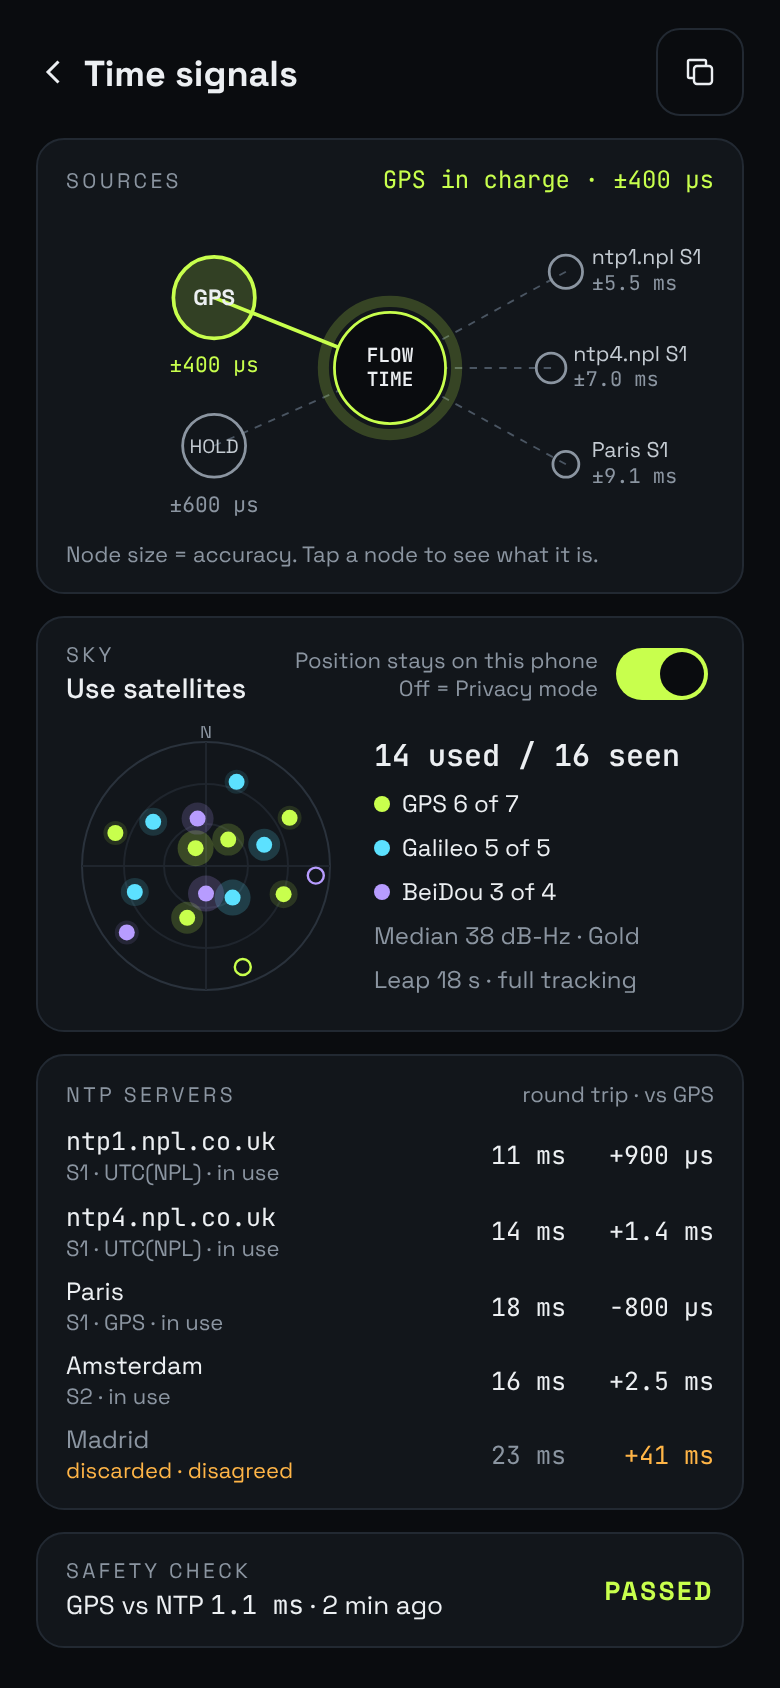
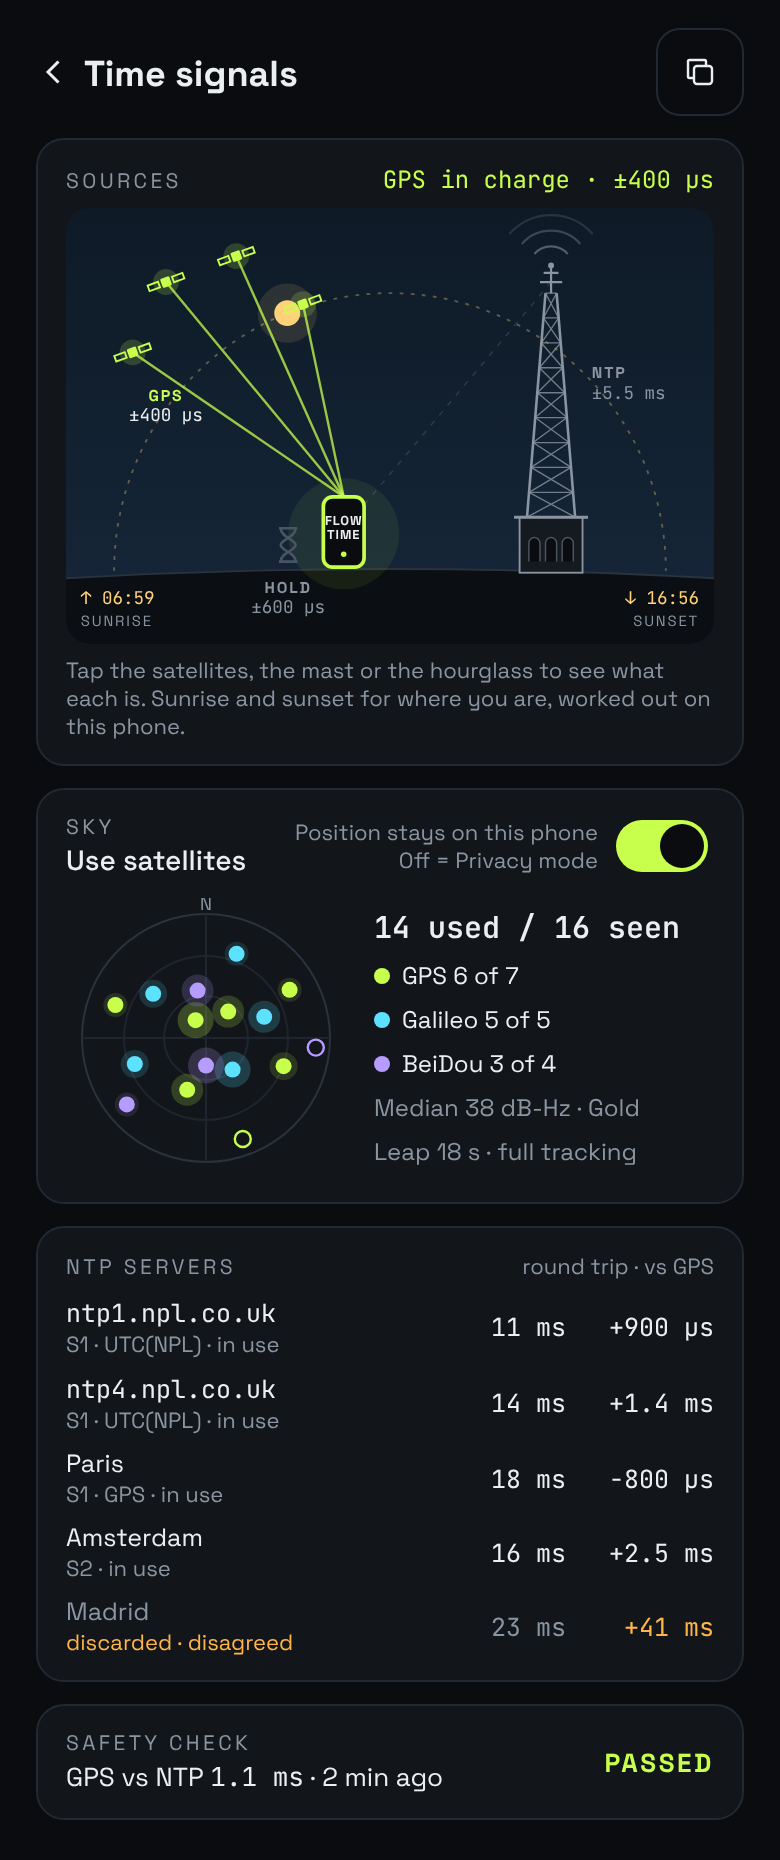
Design hand-offs 51 to 53 from Claude Desktop: earcup three runs and codecs, busy Swarm, Buffer axis; Time signals scene; reactions, pass it on, kept people listening

diff --git a/design/ui-spec.md b/design/ui-spec.md
@@ -1,4 +1,4 @@
-# UI spec (hand-off 50)
+# UI spec (hand-off 53)
 
 Field names come from Claude Code's "Fields that exist today" table in `feedback.md`, as of 1 Nov 2026. If one has been renamed since, use the new name.
 
@@ -853,6 +853,80 @@ User, 8 Nov: on first opening of Satellites, or the 3rd opening without using ge
 | Reduce motion | Still card over the dimmed box: two finger marks, `Pinch to zoom · slide two fingers to tilt`, Got it. Same when-rules. |
 | Screen readers | No animation; the box label gains `Pinch with two fingers to zoom, slide two fingers up or down to tilt, or use the zoom buttons.` once, on opening 1. |
 
+## Earcup test · three runs and codecs
+
+| Test and result | States |
+|---|---|
+| ![](screens/earcup-runs.png) | ![](screens/earcup-runs-states.png) |
+
+From Claude Code's 2 Nov measurements: the codec changes the result by up to ~130 ms on one headset, and the spread only shows **between** runs.
+
+| Part | Rule |
+|---|---|
+| Runs | The test runs **three times** back to back (~50 s): `Run 1 ✓ 93 ms later`, `Run 2 ● listening · 14 of 20 clicks`, `Run 3 ○ next`. A failed run (too quiet / noisy) is repeated once; two fails stop the test. `Quick test: one run (Unsteady at best)` link. |
+| Result | Average of the runs, in words (`94 ms later`); confidence from the **spread** (max − min): Good ≤ 10 ms, Unsteady 10–30 ms or a single run, Try again > 30 ms. ± = half the spread. Dot strip: the three runs numbered, the band they span, `runs agree within 3.3 ms`, the average marked. |
+| Codec | `[Headset name] · Bluetooth · AAC` chip on the test, result and Calibration header. Saved row reads `Saved for AAC`. Note: `Saved for AAC only…` |
+| Saved per codec | On Calibration, under Sources: one row per codec (`AAC 114 ms ±1.7 IN USE`, `LDAC 18 ms late ±7.0 3 Nov`, `SBC — not tested`). The row matching the codec in use is used. |
+| Codec changed | Sheet `Your headphones switched to LDAC`: with a saved LDAC value → **Use the LDAC value** / Test again (+ `Not now keeps the AAC value; sync may be off by about 110 ms`). With none → **Test now · about 50 s** / Not now, and `▲ MAY BE OFF` on the HEADPHONES tile until tested. |
+| Reconnect note | Longer: each connection agrees a codec and buffer, each with its own delay; LDAC adaptive and SBC can drift; matters when sync sounds off, after a codec change or a new phone; Brocast keeps a value per codec and asks. |
+| Later | Codec chip, per-codec rows and the codec-changed sheets wait until an ordinary app is confirmed able to read the codec. Until then: three runs, one saved value, the longer note. |
+
+## Swarm · busy (8+ listeners)
+
+![](screens/swarm-busy.png)
+
+| Part | Rule |
+|---|---|
+| Up to 7 | All drawn, as now. |
+| 8 or more | The 6 busiest (to-you + from-you, smoothed 10 s) plus one dashed **+N** node with their total rate. Same-Wi-Fi listeners always drawn; an open listener sheet keeps its node. |
+| Lines | Width and brightness follow rate; moving blocks only on the 3 busiest links. |
+| +N | Tap scrolls to the list. Count changes without animation. |
+| Swaps | Into the 6 only after 10 s busier; 400 ms cross-fade. |
+
+## Buffer axis (9 Nov)
+
+Labels only where there's room: `−5 s`, `+5 s`, `+10 s`, `1 m`, `1 h`, `24 h`; `10 m` keeps its tick without a label; `6 h` only when it's 40 px clear of `24 h`; no label within 24 px of the frontier line. The `FRONTIER +6 h 12 m` label sits on a dark backing so lines don't cross it. Canvas edits kept: Reduced steps at 10 Hz; Minimal shows no panel, the AHEAD tile only.
+
+## Silent reactions
+
+![](screens/reactions.png)
+
+User, 9 Nov (mesh ideas). Six emoji, no text, nothing to moderate.
+
+| Part | Rule |
+|---|---|
+| Tray | On Now playing under the mesh card: `REACT` and the top counts for the last minute (`🔥 1.4 k · 🙌 610 · last min`); six 48 px buttons (fire, hands up, love, wow, party, wave) with small counts. Rounded above 100. |
+| Sending | Tap: ringed, the rest dim for 3 s (one every 3 s per phone); a soft tick on the next beat confirms. |
+| Landing | Each reaction lands on the next beat 1 at the ear for everyone. On Swarm a ring and a small emoji float up from the sender's node (~1 s). |
+| Travel | Small signed message (key, emoji, bar) on its own mesh channel, passed on at most 3 hops; phones sum per minute; no list of who sent what. Senders faster than 1 / 3 s ignored for a minute; Blocked listeners dropped. |
+| Settings › Listening | Show reactions (on), Send reactions (on; off hides the tray). |
+| Levels | No flashing / Reduce motion: counts only, nothing floats. Minimal: hidden. |
+
+## Pass it on
+
+![](screens/pass-it-on.png)
+
+| Part | Rule |
+|---|---|
+| Giver | Kept › a set › Pass it on, or Now playing › ⋯ › Pass this set on: set header, a QR code (`brocast://pass/<station key>/<set>?via=<your key>`), `Let them scan this with Brocast`, `SIGNED BY BEACH SYNC RADIO`. |
+| Receiver | Brocast › Add › Scan: shows the set and who it's from (`SIGNED`) before anything downloads. Camera app opens Brocast. |
+| Moving | Both phones: `Sending to Teal Plum Ibis` / `Getting it from Amber Fig Heron`, %, path (`Same Wi-Fi · straight between you`), rate, time left. |
+| Done | `KEPT` · `Plays offline, in sync with the station when it's on air.` Every block checked against the station signature; withdrawn sets leave Kept too. |
+| Can't connect | `CAN'T REACH THEIR PHONE`: join the same Wi-Fi or a hotspot; resumes where it stopped. |
+| Rules | Only signed station sets held in full (and stations, via the existing Share a station). Same Wi-Fi/hotspot first, else internet (hole-punched); not on mobile data unless both allow it. Nearby holders also serve. |
+
+## You kept people listening
+
+![](screens/kept-people.png)
+
+| Part | Rule |
+|---|---|
+| Swarm | Top of stats: `You kept 3 people listening for 2 h 10 m today` (big), explanation, this week's bars (today highlighted). |
+| Mesh card | Third line `Helped 3 listeners · 2 h 10 m today` (replaces Passed on; bytes move to Swarm tiles). Not "Kept", which is the library. |
+| Note | Optional, once a day after the first hour passed on, only while open: `You kept 3 people listening today`. Settings › Delivery › Thank-you notes. |
+| Small numbers | 1 → `person`; minutes under an hour; none yet → a sentence, no zero; receive-only → hidden. |
+| Counting | Listening time = audio bytes passed on and played ÷ bitrate, per listener. People = distinct keys with ≥ 60 s from you today. On this phone only, never named or sent. Needs the daily ledger (until then "since 09:14"). |
+
 ## New running order on the phone
 
 ![](screens/order-change.png)
@@ -946,7 +1020,7 @@ A repeated event within 10 s gets a count (`×3`) instead of new rows. The Copy 
 
 ![](screens/time-signals-sources.png)
 
-The user's request (5 Nov): tapping a node in SOURCES shows what it is. Each node, its line and its label make one 44 px target. The tapped node gets a white ring and a sheet rises: the name and its state (`in charge`, `standing by`, `in use`, `discarded`), a plain definition, then live details. Tap another node to switch; swipe down or × to close. The SOURCES caption reads `Node size = accuracy. Tap a node to see what it is.`
+The user's request (5 Nov): tapping a node in SOURCES shows what it is. Each node, its line and its label make one 44 px target. The tapped node gets a white ring and a sheet rises: the name and its state (`in charge`, `standing by`, `in use`, `discarded`), a plain definition, then live details. Tap another node to switch; swipe down or × to close. **Superseded in hand-off 52:** SOURCES is now a picture (below); the taps work the same on the satellites, the mast and the hourglass. Caption: `Tap the satellites, the mast or the hourglass to see what each is. Sunrise and sunset for where you are, worked out on this phone.`
 
 | Node | Definition | Details |
 |---|---|---|
@@ -954,6 +1028,25 @@ The user's request (5 Nov): tapping a node in SOURCES shows what it is. Each nod
 | GPS | Time from navigation satellites via this phone's GPS chip; the best a phone can get | Satellites used of seen, Gold or Silver, last fix, error; link to Satellites |
 | Hold | This phone's own clock carrying on from the last satellite fix; takes over when GPS drops, error grows with time and temperature | Error now, growth rate, last fix, when internet time would take over; link to Satellites |
 | Internet time server (NTP) | A time server over the internet; S1 is one step from an atomic clock; NPL is the UK's National Physical Laboratory | Server, stratum, reference, round trip, difference from GPS, error, in use or discarded |
+
+
+### Sources as a picture (hand-off 52)
+
+| Main | States |
+|---|---|
+| ![](screens/time-signals.png) | ![](screens/time-signals-scene.png) |
+
+User, 9 Nov: the node diagram looked like a mesh with 4 nodes. Replace with a more accurate pictogram: a vastly exaggerated radio tower (Alexandra Palace style) for NTP, plus sunrise and sunset for the user's location.
+
+| Part | Rule |
+|---|---|
+| Scene | 350 × 236, rounded. Sky gradient (day / night with stars and moon). Ground with a slight curve. **Sun** on a dotted arc from the sunrise end (left) to the sunset end (right), placed by the time of day (updates once a minute). Under the ground line: `↑ 06:59 SUNRISE` left, `↓ 16:56 SUNSET` right, warm yellow `#FFD27A`. |
+| GPS | Four small satellites top left; lines to the phone. In charge: accent, solid, glow; otherwise grey, dashed. Label `GPS ±400 µs`. Tap opens Satellites. |
+| NTP | **A tall lattice mast on a brick tower with arched windows** (Alexandra Palace-like), far too tall on purpose, aerials and three wave arcs on top. In charge: accent, waves glow, solid line; otherwise grey, dashed. Label `NTP ±5.5 ms` (best server). Tap scrolls to NTP servers. |
+| Phone | FLOWTIME phone standing on the ground, centre, with a soft accent halo. **Hourglass** beside it = the phone's own clock (holdover), accent while holding. Label `HOLD ±600 µs`. Tap opens the holdover explanation. |
+| Accuracy | Now in the labels, not in node size. |
+| Sunrise / sunset | From this phone's position and date, on the phone (position never leaves it). Use satellites off: last known position, else the time zone's main city, with `approx.` Midnight sun / polar night: `Sun up all day` / `Sun doesn't rise today`. |
+| Clock face | When internet time is in charge, the Now playing clock-face aerial becomes a mini mast (same symbol). |
 
 ## Calibration
 

diff --git a/design/feedback.md b/design/feedback.md
@@ -473,3 +473,11 @@ Engineering limits stay as in "hand-off 42 as built": the orbit plane is inferre
 - Upload page: Station colour card (21 swatches) + dialog (Now / At the next set, Tell listeners, before/after pills; no full Now playing mock), COLOUR column with popover; colours go into the draft and out on Publish. The page's own accent follows the station colour.
 - Beat counter: BAR and BPM moved to a line above, cells full width and 44 dp (missed from h43 first time).
 - News: BBC and NPR are built in, station's choice pre-selects and is marked; newest pubDate wins; Latest line shows bulletin time and when found.
+
+## 9 Nov: beats per bar other than 4 (user)
+
+User: "Do we need to change the design to allow more beats in a bar? … the user should probably always have an option to switch to 4-beats-per-bar."
+- The beat analysis assumes 4/4, which fits nearly all house, techno and trance. Sets can still hold a 3/4 or 6/8 track, or an odd bar at a mix (a 2-beat bar, a "beat-4 blip" before a drop).
+- Please design: the beat counter with 3 to 7 cells (beat 1's cell wider, as now); how a bar of another length shows when it happens once (an odd bar at a mix); and a Settings › Screen option to always count in 4 ("Always count in 4", on or off; default to be decided).
+- Engineering: the analysis would report beats per bar per stretch of music. Not built yet; it waits on this design.
+- Blocked listeners (built 9 Nov): after Unblock all, the card stays with "N unblocked · they can connect again" and Undo, so the page doesn't shift under the finger (a second tap had opened Your identity). Design may want to match.

diff --git a/design/handoff-51.md b/design/handoff-51.md
@@ -1,0 +1,13 @@
+# Hand-off 51 (9 Nov 2026): earcup three runs + codecs, busy Swarm, Buffer axis
+
+User, 9 Nov: agreed to all of the queued points (feedback 2 Nov earcup/codec, 4 Nov Swarm lanes and Buffer labels).
+
+| Item | Change | Needs code? |
+|---|---|---|
+| `screens/earcup-runs` (new) | Three runs in one test, result from their average, confidence from their spread, dot strip, Saved for AAC. | yes |
+| `screens/earcup-runs-states` (new) | Thresholds, AAC / LDAC / SBC examples with your 2 Nov numbers, failed run, codec on Calibration, saved per codec, two codec-changed sheets, longer reconnect note. Codec parts **later** until you confirm the codec can be read. | yes |
+| `screens/swarm-busy` (new) | 8+ listeners: 6 busiest + `+N`, rate-weighted lines, swap rules. | yes |
+| `screens/buffer`, `buffer-states` | Axis labels thinned, frontier label backed. Kept the canvas edits (10 Hz; Minimal = AHEAD tile only). | small |
+| `ui-spec.md` | Sections: Earcup test · three runs and codecs; Swarm · busy; Buffer axis. | — |
+
+FYIs noted: BBC default until a station sends its choice; bulletin loudness matched to the music (+18 dB max) — both stand.

diff --git a/design/handoff-52.md b/design/handoff-52.md
@@ -1,0 +1,11 @@
+# Hand-off 52 (9 Nov 2026): Time signals sources as a picture
+
+User, 9 Nov: the Time signals pictogram looked like a mesh with 4 nodes; use a vastly exaggerated Alexandra Palace-style radio tower for NTP, and show sunrise and sunset for the user's location.
+
+| Item | Change | Needs code? |
+|---|---|---|
+| `screens/time-signals` | SOURCES node diagram replaced by a scene: satellites (GPS), lattice mast on a brick tower (NTP), phone on the ground (FLOWTIME) with an hourglass (hold), sun on its arc, sunrise/sunset times. Board 930 tall. | yes |
+| `screens/time-signals-scene` (new) | GPS in charge (day), internet time in charge, holding (night), the clock-face mini mast, rules. | yes |
+| `ui-spec.md` | Time signals › Sources as a picture. | — |
+
+Needs: sunrise/sunset from position + date on the phone (NOAA solar equations are enough; no network); fallback to the time zone's main city with "approx." Same taps as before.

diff --git a/design/handoff-53.md b/design/handoff-53.md
@@ -1,0 +1,10 @@
+# Hand-off 53 (9 Nov 2026): silent reactions, pass it on, you kept people listening
+
+User, 9 Nov: picked three mesh ideas from the shortlist.
+
+| Item | Change | Needs code? |
+|---|---|---|
+| `screens/reactions` (new) | Reaction tray under the mesh card, counts per minute, landing on the beat, Swarm pulses, two settings, rules. | yes (new mesh channel) |
+| `screens/pass-it-on` (new) | QR on the giver, scan on the receiver, both progress cards, done, can't connect, rules. | yes |
+| `screens/kept-people` (new) | Swarm headline with week bars, mesh card `Helped` line, once-a-day note, small-number cases, counting rules. | yes (daily ledger) |
+| `ui-spec.md` | Three new sections; also restores the h52 Time signals section, which didn't land in the 11:15 commit. | — |
